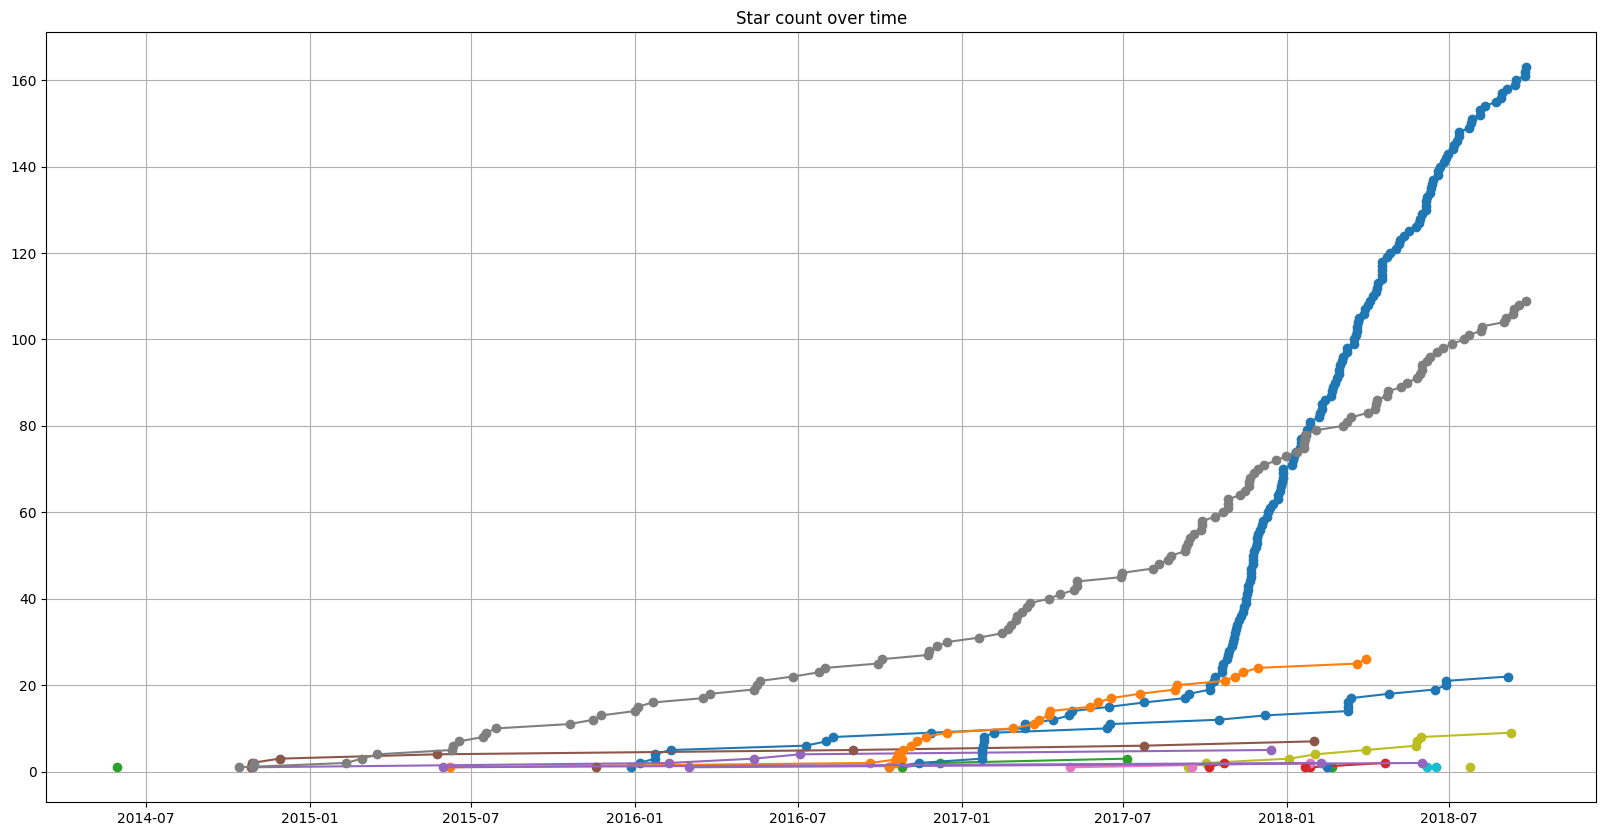
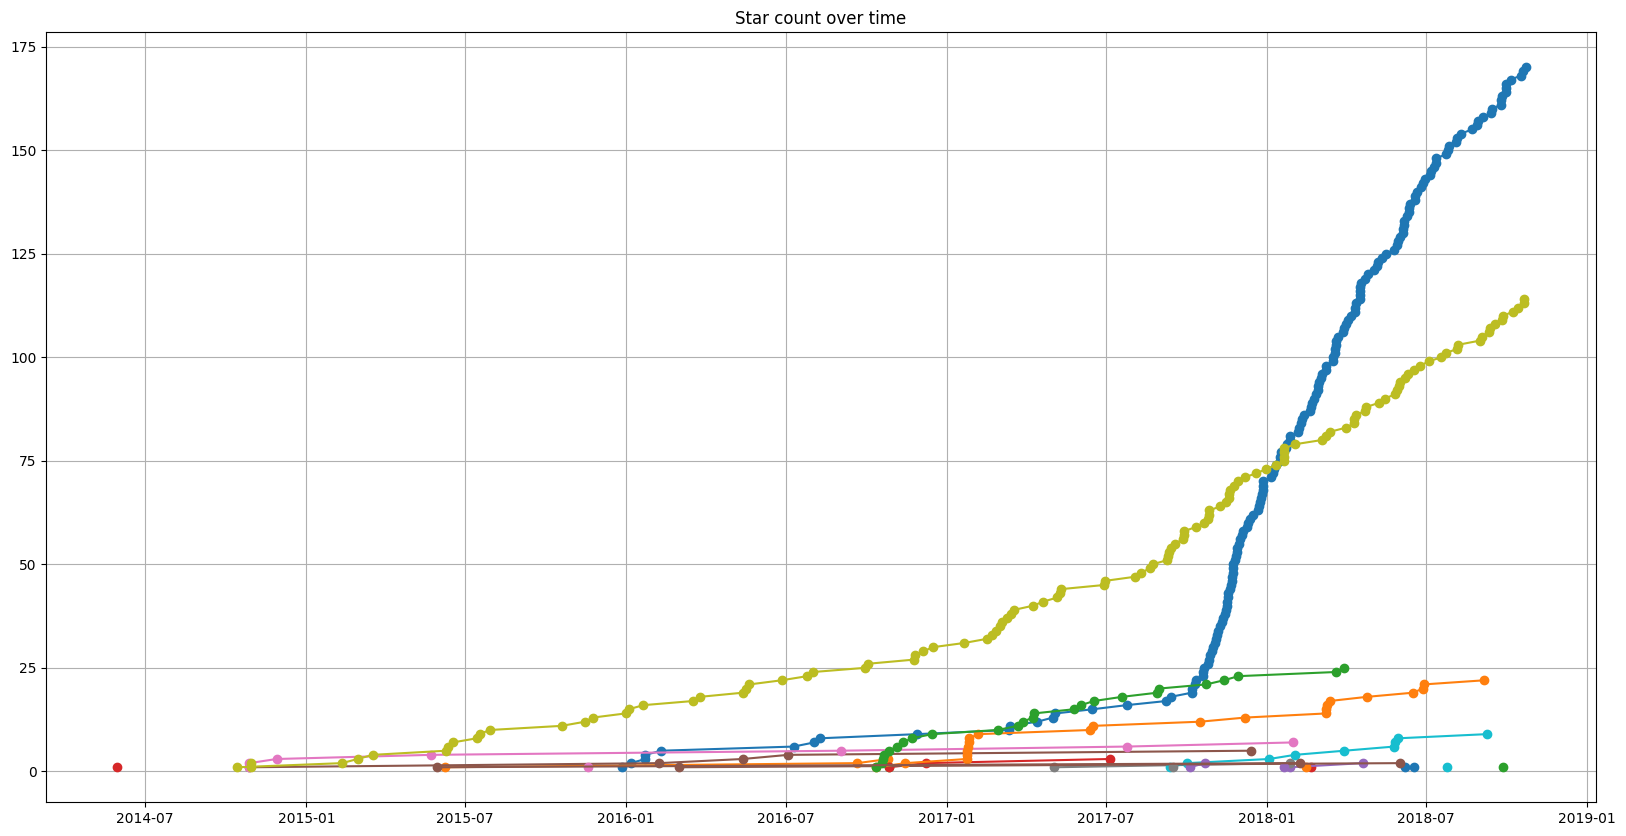
update

diff --git a/README.md b/README.md
@@ -3,7 +3,7 @@
 
 ![star plot](https://raw.github.com/FabriceSalvaire/github-map/master/star-plots/all.png)
 
-Overall stars: 369 :star:
+Overall stars: 381 :star:
 
 ## Python Packages
 
@@ -45,17 +45,17 @@ Overall stars: 369 :star:
 
 ## Python Tools for Developers
 
-* [CodeReview](https://github.com/FabriceSalvaire/CodeReview) 163 :star:</br>
+* [CodeReview](https://github.com/FabriceSalvaire/CodeReview) 170 :star:</br>
 
    CodeReview is a Git GUI tool to perform code review (Diff Viewer) written in Python3 and Qt5.
 
-   Updated on 2018-09-25
+   Updated on 2018-10-22
 
 * [github-map](https://github.com/FabriceSalvaire/github-map)
 
    A summary of my projects on Github (using API and Python)
 
-   Updated on 2018-08-13
+   Updated on 2018-09-25
 
 * [python-memo](https://github.com/FabriceSalvaire/python-memo)
 
@@ -181,11 +181,11 @@ Overall stars: 369 :star:
 
 ## Python for Electronic
 
-* [PySpice](https://github.com/FabriceSalvaire/PySpice) 109 :star:</br>
+* [PySpice](https://github.com/FabriceSalvaire/PySpice) 114 :star:</br>
 
    Simulate electronic circuit using Python and the Ngspice / Xyce simulators
 
-   Updated on 2018-09-25
+   Updated on 2018-10-21
 
 * [PyCpuSimulator](https://github.com/FabriceSalvaire/PyCpuSimulator) 2 :star:</br>
 
@@ -307,11 +307,11 @@ Overall stars: 369 :star:
 
 ## Web
 
-* [redmine-improved-theme](https://github.com/FabriceSalvaire/redmine-improved-theme) 26 :star:</br>
+* [redmine-improved-theme](https://github.com/FabriceSalvaire/redmine-improved-theme) 25 :star:</br>
 
    Redmine theme forked from the vanilla Redmine theme and converted to SASS
 
-   Updated on 2018-03-30
+   Updated on 2018-10-16
 
 * [css-demo](https://github.com/FabriceSalvaire/css-demo)
 
